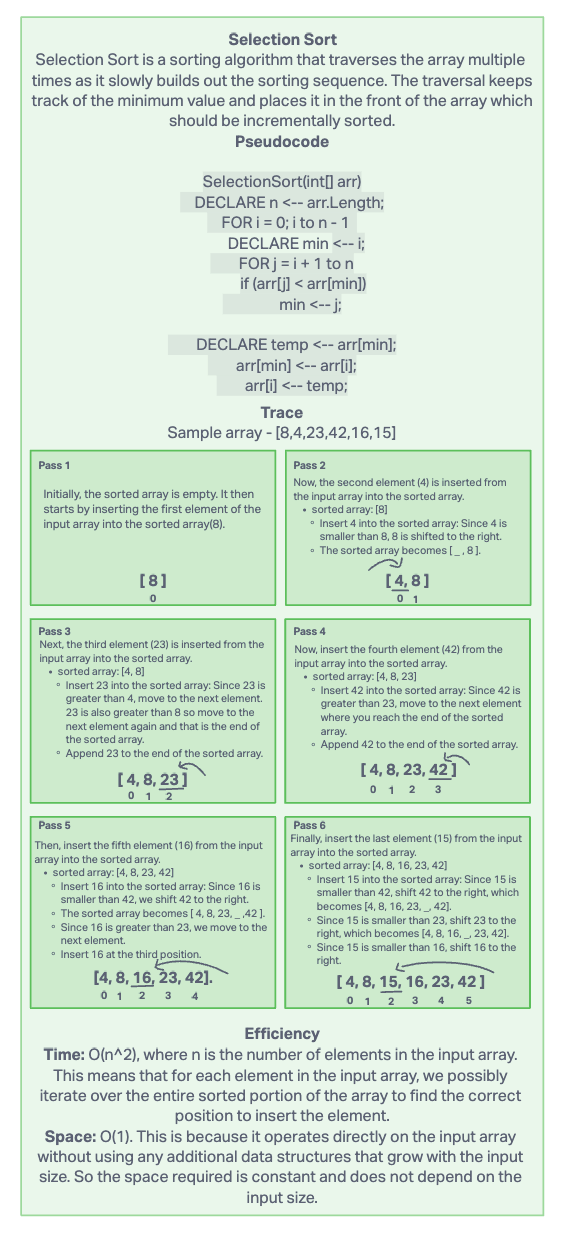
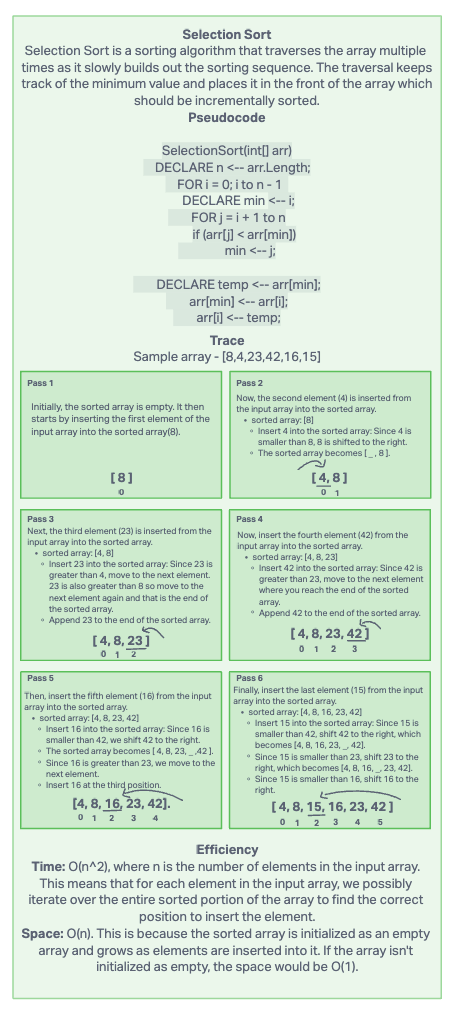
edit whiteboard and readme

Changed region(s): [[0.0, 0.0, 0.9912, 1.0]]

diff --git a/javascript/README.md b/javascript/README.md
@@ -94,7 +94,7 @@ From the `data-structures-and-algorithms/javascript` folder, execute the followi
 - [code challenge 16 - Binary tree max value](../javascript/401-code-challenges/trees/__tests__/max-value.test.js)
 - [code challenge 17 - Binary tree breadth first](../javascript/401-code-challenges/trees/__tests__/breadth-first.test.js)
 - [code challenge 18 - Fizz Buzz K-ary tree](../javascript/401-code-challenges/trees/__tests__/fizz-buzz.test.js)
-- [code challenge 26 - sorting insertion](../javascript/401-code-challenges/sorting/insertion/    )
+- [code challenge 26 - sorting insertion](../javascript/401-code-challenges/sorting/__tests__/insert.test.js)
 
 ### Code challenges TOC
 
@@ -110,4 +110,4 @@ From the `data-structures-and-algorithms/javascript` folder, execute the followi
 - [code challenge 16 - Binary tree max value](../javascript/401-code-challenges/trees/README.md)
 - [code challenge 17 - Binary tree breadth first](../javascript/401-code-challenges/trees/README.md)
 - [code challenge 18 - Fizz Buzz K-ary tree](../javascript/401-code-challenges/trees/README.md)
-- [code challenge 26 - sorting insertion](../javascript/401-code-challenges/sorting/insertion/README.md)
+- [code challenge 26 - sorting insertion](../javascript/401-code-challenges/sorting/README.md)

diff --git a/javascript/401-code-challenges/sorting/README.md b/javascript/401-code-challenges/sorting/README.md
@@ -15,6 +15,6 @@ My BigO:
 
 Insertion
 Time: O(n^2)
-Space: O(1)
+Space: O(n), since initialized as empty array
 
 ## Collaborators
